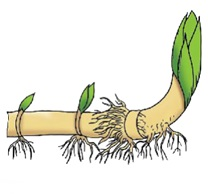
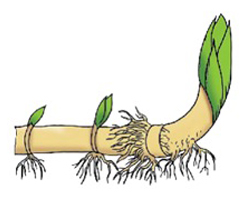
bir oz bo'ldi

Changed region(s): [[0.0288, 0.0619, 0.9808, 0.9278]]

diff --git a/resurs/topshiriq18.html b/resurs/topshiriq18.html
@@ -121,9 +121,10 @@
             <h1 class="col text-center">
               Organ va oranlar sistemasi.  O’simliklarning vegetativ organi.
             </h1>
+<br>
+<br>
 
-
-            <p> Ayrim o‘simliklarda qo‘shimcha funksiyalarni bajarishga moslashishi natijasida shakli o‘zgargan  ildiz va novdalar hosil bo‘ladi. Shakli o‘zgargan novda (a) va ildiz (b) ni  aniqlang. </p>
+            <h3> Ayrim o‘simliklarda qo‘shimcha funksiyalarni bajarishga moslashishi natijasida shakli o‘zgargan  ildiz va novdalar hosil bo‘ladi. Shakli o‘zgargan novda (a) va ildiz (b) ni  aniqlang. </h3>
 
 
           </div>
@@ -144,23 +145,35 @@
 
             <div id="nerv1" class="col" ><img src="images/topshiriq/sabz.jpg"></div>
             <div id="nerv1" class="col" ><img src="images/topshiriq/piyoz.jpg"></div>
-            <div id="nerv1" class="col" ><img src="images/topshiriq/turp.jpg"></div>
+            <div id="nerv1" class="col" ><img src="images/topshiriq/sholgom.jpg"></div>
             <div id="nerv1" class="col" ><img src="images/topshiriq/gulsafsar.jpg"></div>
 
           </div>
 
-          <div class="row">
-            <div class="col">A) a-2; b-1</div>
-            <div class="col">B) a-4; b-2</div>
-            <div class="col">C) a-1; b-3</div>
-            <div class="col">D) a-3; b-4</div>
+          <div class="row m-3 text-center">
+            <div class="flex-box-2" id="btn4">
+
+              <button class="btn btn-primary m-3"
+              style="height:60px;width:200px; font: 1em sans-serif; float: left;" id="four1">A) a-2; b-1</button>
+
+
+              <button class="btn btn-primary m-3"
+              style="height:60px;width:200px; font: 1em sans-serif; float: left;" id="four2"> B) a-4; b-2 </button>
+
+              <button class="btn btn-primary m-3"
+              style="height:60px;width:200px; font: 1em sans-serif; float: left;" id="four1">C) a-1; b-3 </button>
+
+              <button class="btn btn-primary m-3"
+              style="height:60px;width:200px; font: 1em sans-serif; float: left;" id="four2">D) a-3; b-4</button>
+
+            </div>
           </div>
 
 
 
       </div>
 
-  <button class="btn btn-success mt-4 pr-3"> Tekshirish </button>
+
 </section>
 
 
